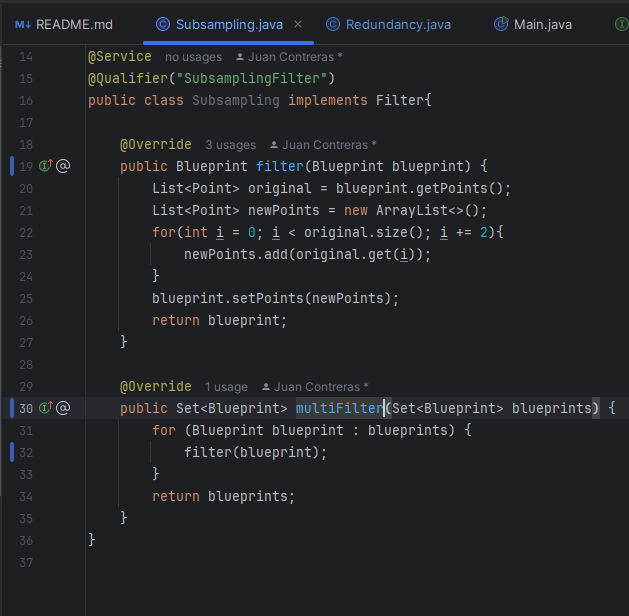
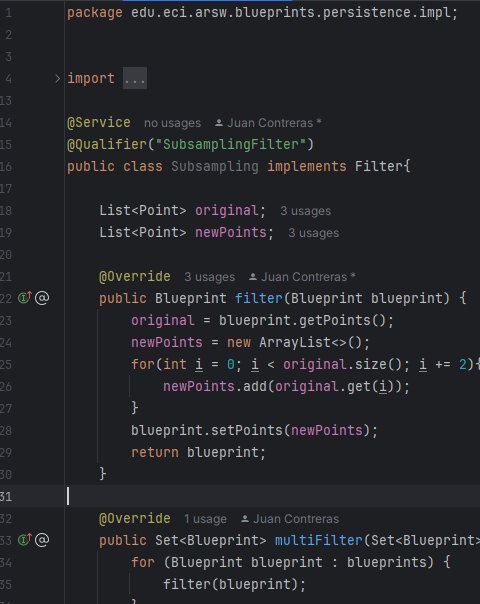
Parte 4

diff --git a/src/main/java/edu/eci/arsw/blueprints/persistence/impl/Redundancy.java b/src/main/java/edu/eci/arsw/blueprints/persistence/impl/Redundancy.java
@@ -16,10 +16,14 @@ import edu.eci.arsw.blueprints.persistence.Filter;
 @Qualifier("RedundancyFilter")
 public class Redundancy implements Filter {
 
+    List<Point> original;
+    List<Point> duplicated;
+    List<Point> x;
+
     @Override
     public Blueprint filter(Blueprint blueprint) {
-        List<Point> original = blueprint.getPoints();
-        List<Point> duplicated = new ArrayList<>();
+        original = blueprint.getPoints();
+        duplicated = new ArrayList<>();
         for (int i = 0; i < original.size(); i++) {
             for (int j = i + 1; j < original.size(); j++) {
                 if (areEquals(original.get(i), original.get(j))) {
@@ -45,7 +49,7 @@ public class Redundancy implements Filter {
     }
 
     public List<Point> removeduplicated(List<Point> duplicatedPoints, List<Point> ptsAll) {
-        List<Point> x = new ArrayList<>(ptsAll);
+        x = new ArrayList<>(ptsAll);
         for (Point i: duplicatedPoints) {
             x.remove(i);
         }

diff --git a/src/main/java/edu/eci/arsw/blueprints/persistence/impl/Subsampling.java b/src/main/java/edu/eci/arsw/blueprints/persistence/impl/Subsampling.java
@@ -15,10 +15,13 @@ import org.springframework.stereotype.Service;
 @Qualifier("SubsamplingFilter")
 public class Subsampling implements Filter{
 
+    List<Point> original;
+    List<Point> newPoints;
+
     @Override
     public Blueprint filter(Blueprint blueprint) {
-        List<Point> original = blueprint.getPoints();
-        List<Point> newPoints = new ArrayList<>();
+        original = blueprint.getPoints();
+        newPoints = new ArrayList<>();
         for(int i = 0; i < original.size(); i += 2){
             newPoints.add(original.get(i));
         }
